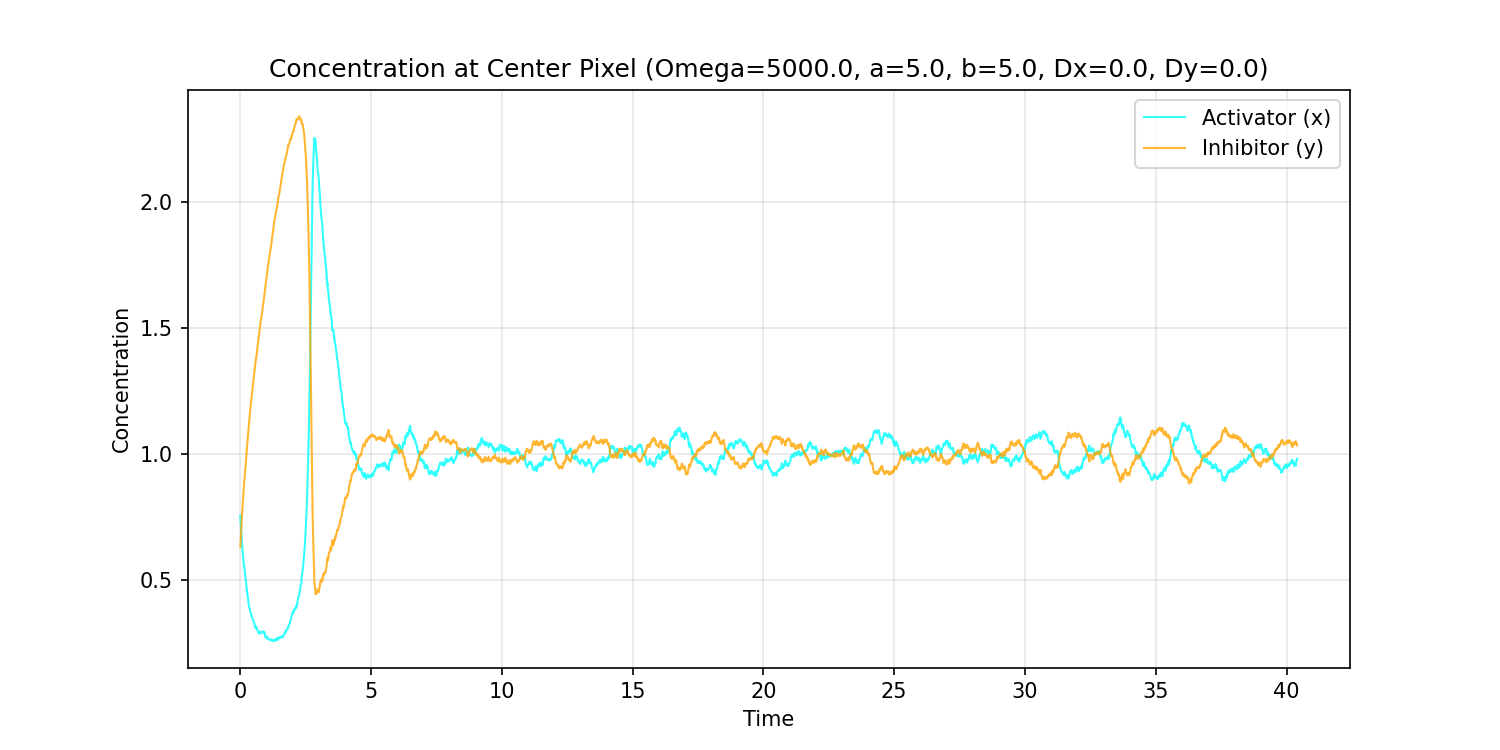
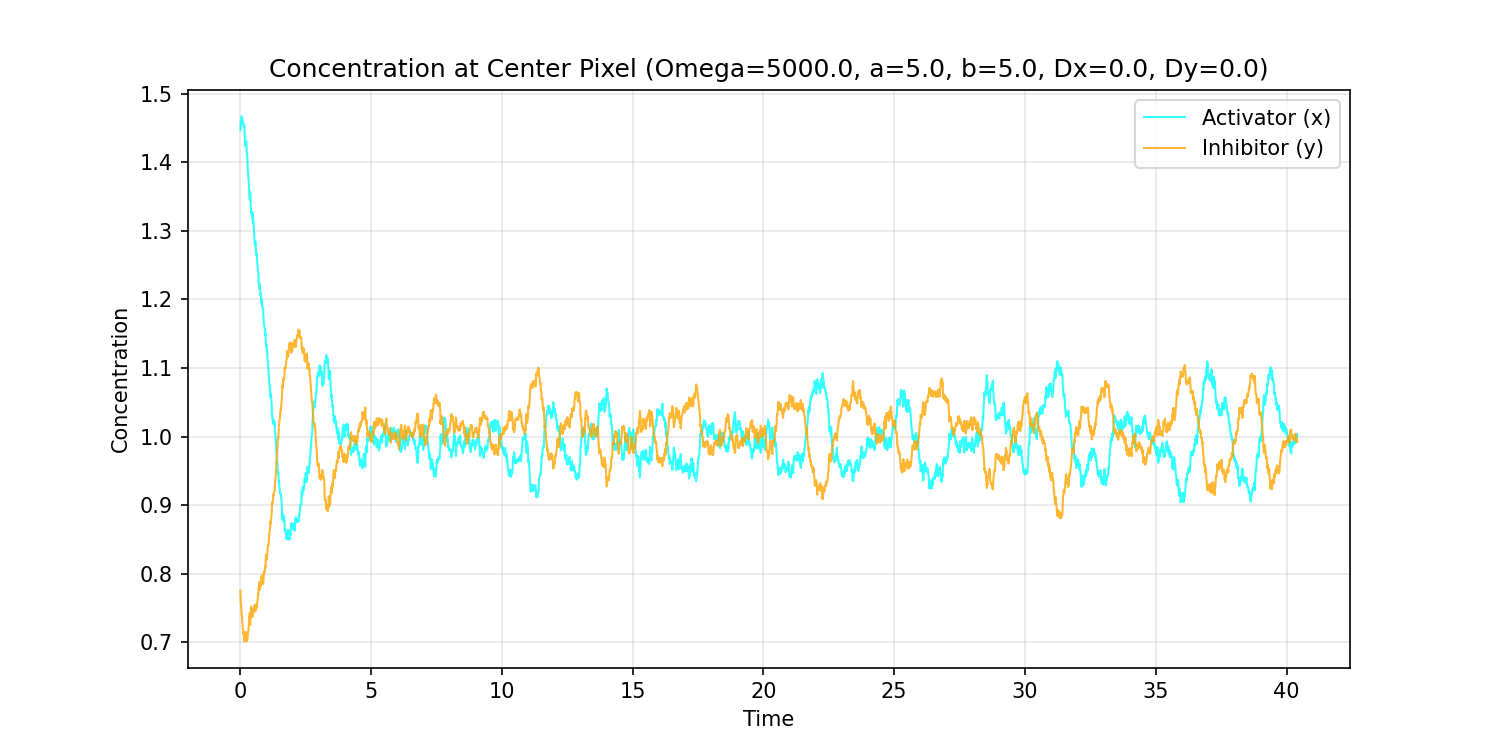
more sims

diff --git a/simulator.py b/simulator.py
@@ -11,10 +11,10 @@ dx = 1.0
 Omega = 5000.0        # System Volume (Noise level)
 
 # Model Coefficients
-a = 1.0
-b = 5.0
-Dx = 0.0
-Dy = 0.0
+a = 5.0
+b = 3.0
+Dx = 1.0
+Dy = 10.0
 
 # --- 2. Initialization ---
 x_ss = 1.0
@@ -117,18 +117,34 @@ plt.grid(True, alpha=0.3)
 plt.savefig(f'pixel_trace_a{a}_b{b}_om{Omega}_Dx{Dx}_Dy{Dy}.png', dpi=150)
 print("   Saved 'pixel_trace.png'")
 
+# --- 6. Save the Phase Space Trajectory (X vs Y) ---
+print("3. Generating Phase Space Plot...")
 plt.figure(figsize=(6, 6))
 plt.plot(history_x, history_y, color='purple', alpha=0.6, linewidth=0.8)
+
 # Mark the start and end points
 plt.scatter(history_x[0], history_y[0], color='green', label='Start', zorder=5)
 plt.scatter(history_x[-1], history_y[-1], color='red', label='End', zorder=5)
 # Mark the theoretical steady state
 plt.scatter([x_ss], [y_ss], color='black', marker='x', s=100, label='Steady State', zorder=5)
 
-plt.title("Phase Space Trajectory (y vs x)")
+plt.title(f"Phase Space (Center Pixel)\na={a}, b={b}, Omega={Omega}")
 plt.xlabel("Concentration X")
 plt.ylabel("Concentration Y")
 plt.legend()
 plt.grid(True, alpha=0.3)
 plt.tight_layout()
 plt.savefig(f'phase_portrait_a{a}_b{b}_om{Omega}_Dx{Dx}_Dy{Dy}.png', dpi=150)
+print("   Saved 'phase_portrait.png'")
+
+# --- 7. Save Final Frame (Heatmap) as Image ---
+print("4. Saving Final Frame...")
+fig_final, ax_final = plt.subplots(figsize=(6, 6))
+im_final = ax_final.imshow(y, cmap='inferno', interpolation='bicubic', vmin=0, vmax=y_ss*2)
+ax_final.axis('off')
+ax_final.set_title(f"Final State (Omega={Omega}, a={a}, b={b}, Dx={Dx}, Dy={Dy})")
+# Add a colorbar to make the image more informative
+plt.colorbar(im_final, ax=ax_final, fraction=0.046, pad=0.04)
+plt.tight_layout()
+plt.savefig(f'final_frame_a{a}_b{b}_om{Omega}_Dx{Dx}_Dy{Dy}.png', dpi=150)
+print("   Saved 'final_frame.png'")
